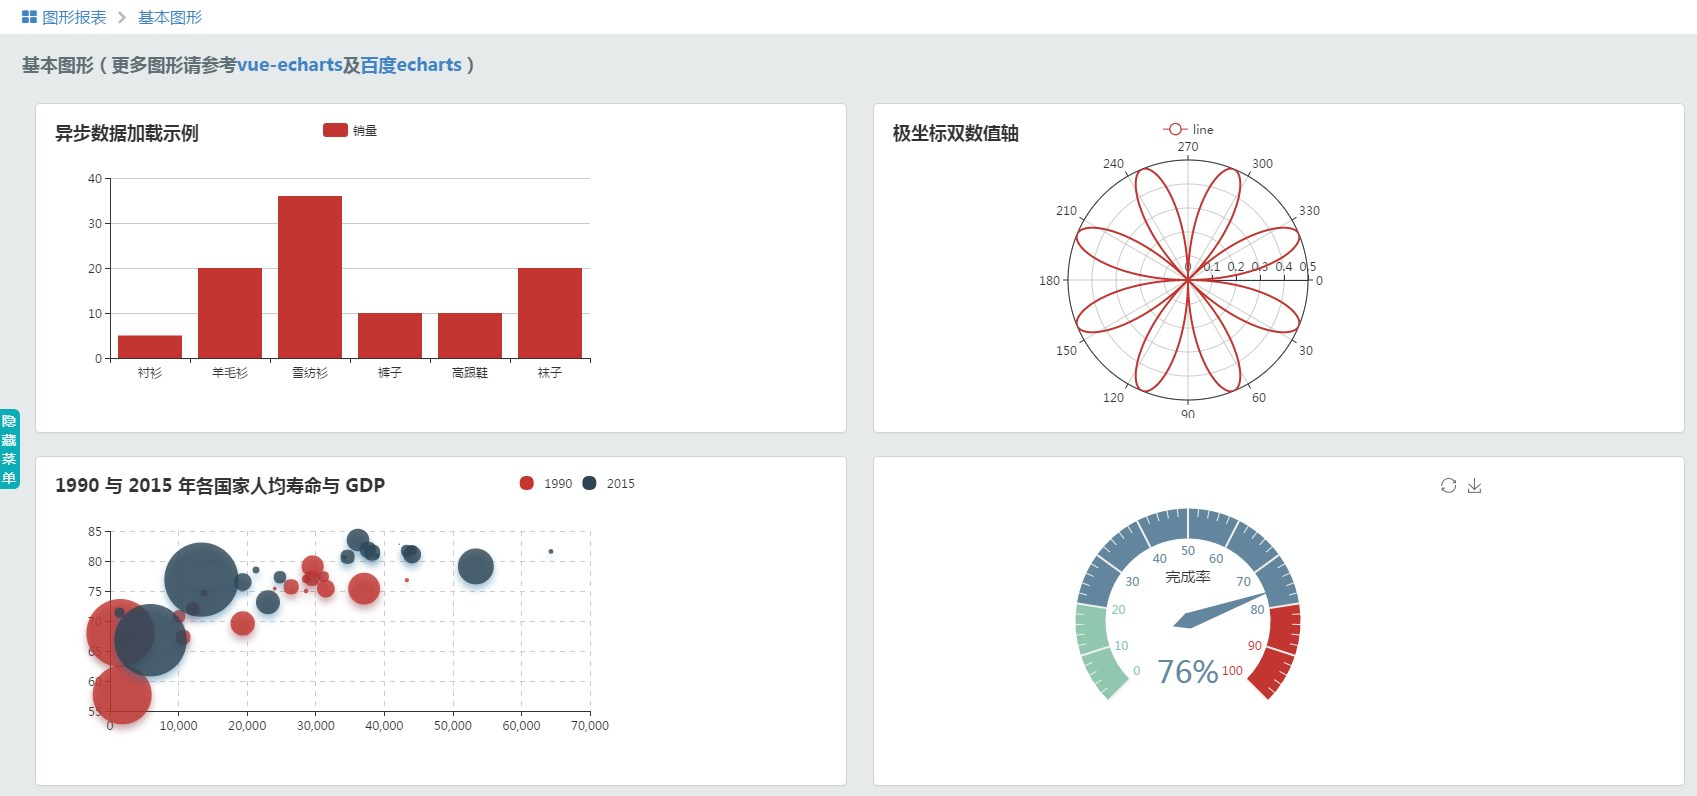
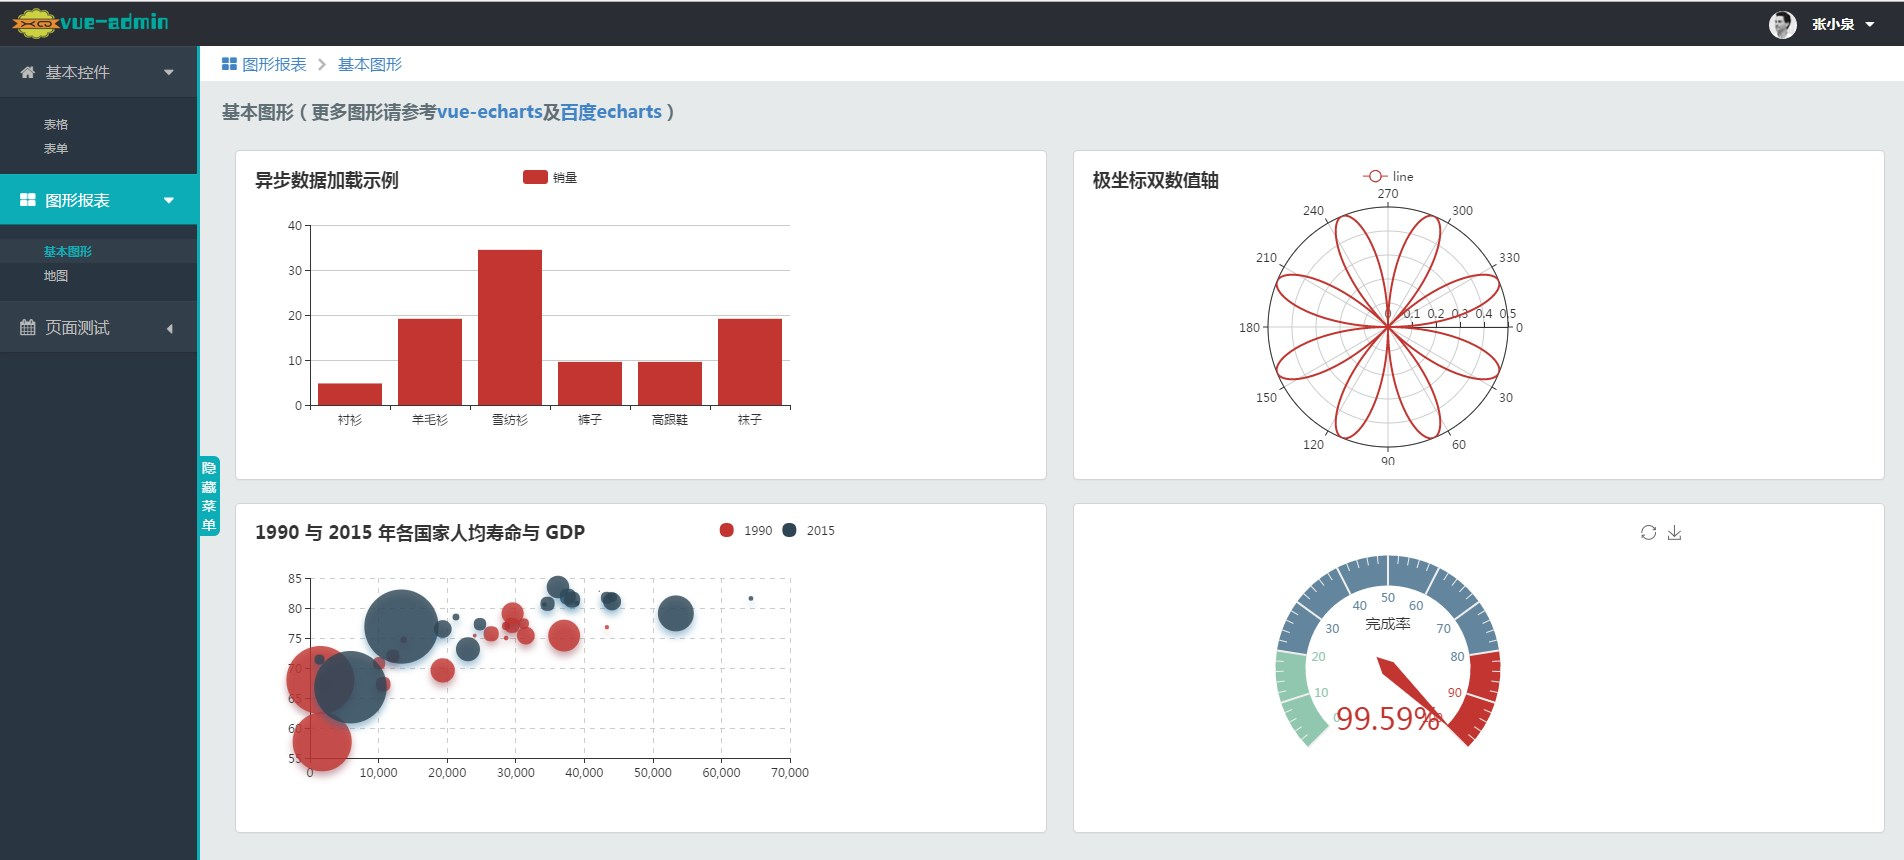
集成百度echarts3，新增图标示例

diff --git a/README.md b/README.md
@@ -102,7 +102,7 @@ npm test
   - 登录界面
   ![image](https://github.com/rootsli/vueadmin/blob/master/doc/img/login.jpg)
 
-  - 主页面
+  - 主页面及表格示例
   ![image](https://github.com/rootsli/vueadmin/blob/master/doc/img/main.jpg)
 
   - 表单
